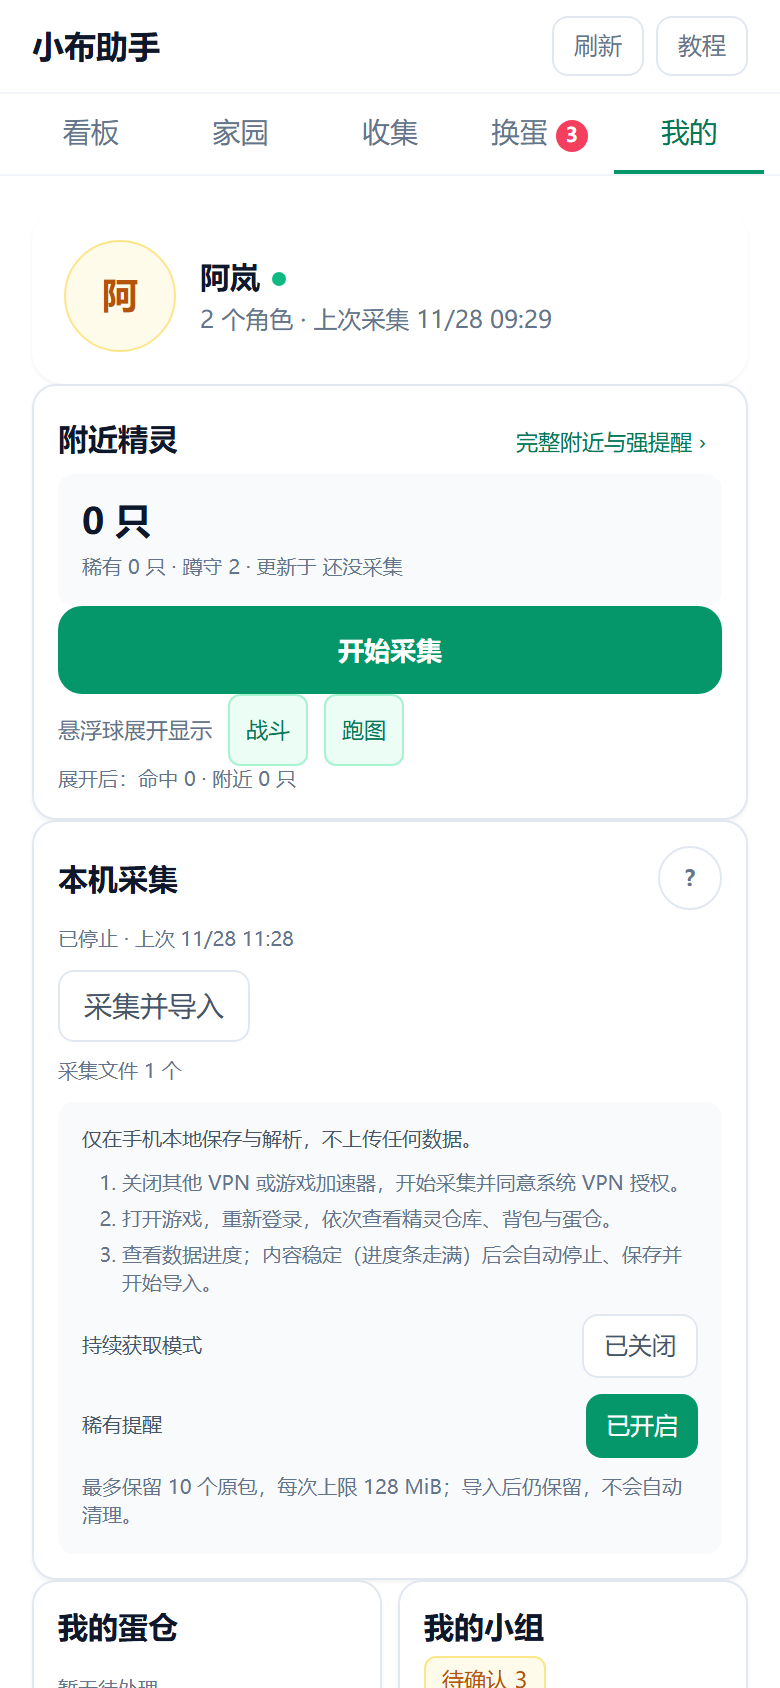
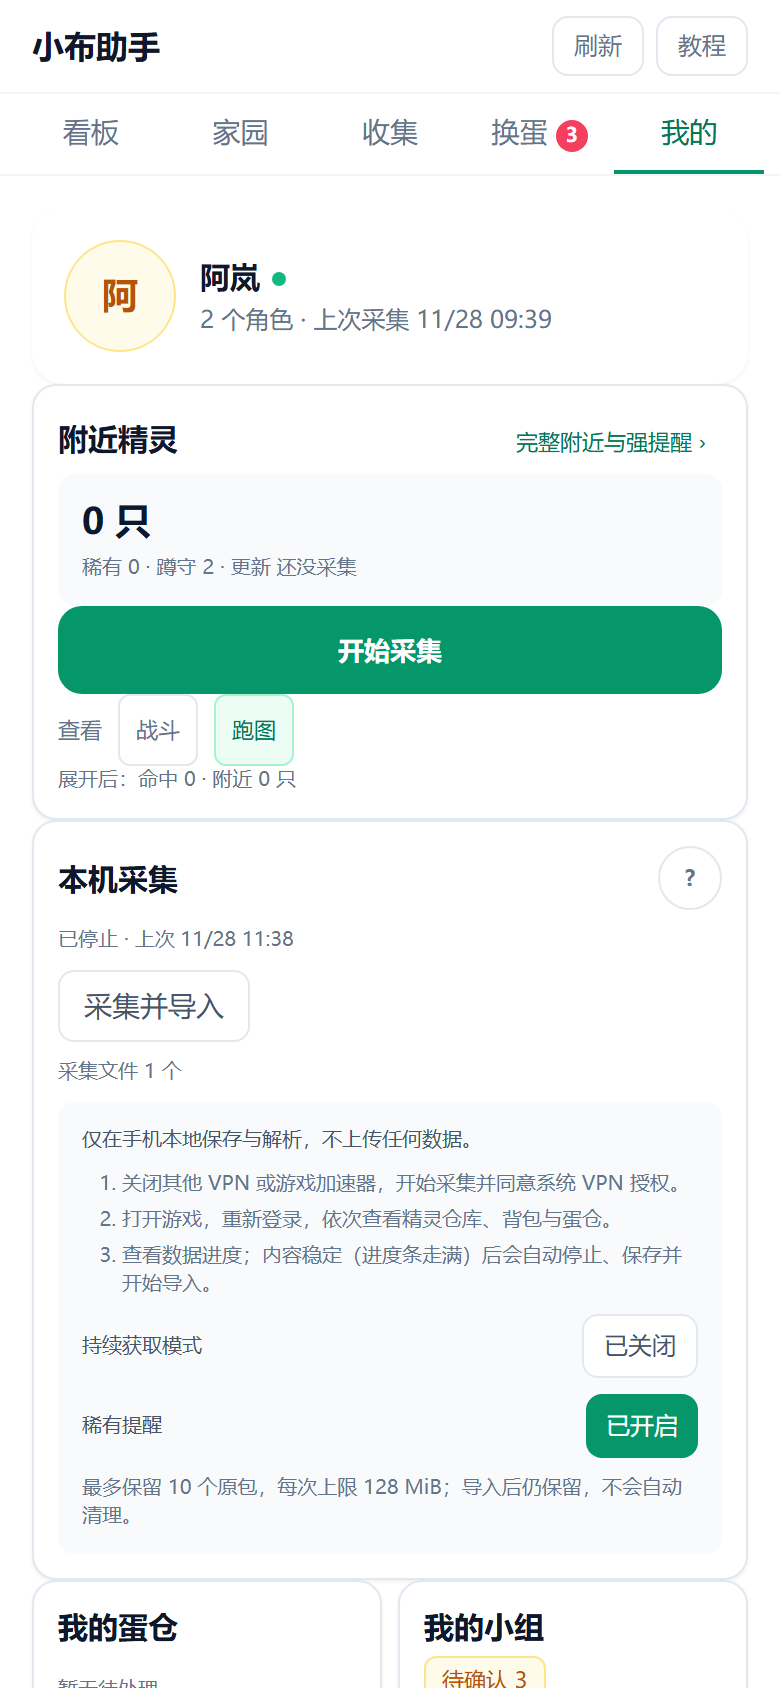
fix(profile): 战斗/跑图改成「看哪一类」的本机偏好，不是采集模式
按 UX1 查证口径修正：
- 新增 captureFocusStore（'battle'|'nearby'，key roco.captureFocus，默认跑图）；
  切换只写偏好，不碰采集会话 / 快照 / 悬浮球开关 / 提醒阈值
- 附近卡：卡名固定「附近精灵」；状态行按焦点切（跑图：N 只 + 稀有/蹲守/更新；
  战斗：最近一场 · 守卫 L 级 · 是否命中；不写「1 场」）；
  战斗 / 跑图改成互斥的查看开关，不再联动 overlayPanels
- 详情：入口文案随焦点变；「附近」页按焦点只显示附近列表或战斗卡
- 截图补 375/390 战斗焦点各一张

diff --git a/src/ui/profile/sections/NearbySection.tsx b/src/ui/profile/sections/NearbySection.tsx
@@ -1,16 +1,15 @@
 import { Card } from '../../kit';
 import { startCollectorCapture } from '../../../collector/nativeCollector';
 import { markCaptureOrigin } from '../../../collector/captureOriginStore';
-import { isLastEnabledNearbyOverlayPanel, setNearbyOverlayPanel, useNearbyOverlayPanels } from '../../../nearby/overlayPanels';
+import { setCaptureFocus, useCaptureFocus } from '../../../collector/captureFocusStore';
 import { useNearbyCardStats } from '../useNearbyCardStats';
 import type { SectionProps } from '../types';
 
 /**
- * 附近精灵入口卡（2026-11-28 UX1 方案 A）。
+ * 附近精灵卡（2026-11-28 UX1 方案 A / 口径修正）。
  *
- * 状态行（几只 / 稀有 / 更新时间）→ 开始采集 → 战斗 / 跑图两个独立开关 →
- * 实时后果一行 → 完整附近与强提醒。
- * 开关就是悬浮球的两块面板（`overlayPanels`），不新建状态；至少留一项。
+ * 战斗 / 跑图只是「看哪一类」：一次采集同时产出两类结果，切换只写本机偏好
+ * （`captureFocusStore`），不碰采集会话、不清快照、不联动悬浮球开关。
  */
 function timeText(ms: number | null): string {
   if (!ms) return '还没采集';
@@ -24,8 +23,8 @@ function timeText(ms: number | null): string {
 }
 
 export function NearbySection({ ctx }: SectionProps) {
-  const { pets, rare, targets, hits, updatedAt } = useNearbyCardStats();
-  const panels = useNearbyOverlayPanels();
+  const { pets, rare, targets, encounter, hit, updatedAt } = useNearbyCardStats();
+  const focus = useCaptureFocus();
 
   const start = () => {
     markCaptureOrigin('nearby');
@@ -45,15 +44,39 @@ export function NearbySection({ ctx }: SectionProps) {
           className="min-h-8 shrink-0 rounded-tile px-s2 text-meta font-medium text-accent-strong transition-colors active:bg-surface-sunken"
           data-testid="profile-nearby-detail"
         >
-          完整附近与强提醒 ›
+          {focus === 'battle' ? '完整战斗与强提醒 ›' : '完整附近与强提醒 ›'}
         </button>
       </div>
 
-      <div className="rounded-tile bg-surface-sunken p-s3" data-testid="profile-nearby-status">
-        <p className="text-hero font-semibold tabular-nums text-ink-strong">{pets} 只</p>
-        <p className="mt-s1 text-caption text-ink-muted">
-          稀有 {rare} 只{targets > 0 ? ` · 蹲守 ${targets}` : ''} · 更新于 {timeText(updatedAt)}
-        </p>
+      <div
+        className="rounded-tile bg-surface-sunken p-s3"
+        data-testid="profile-nearby-status"
+        data-focus={focus}
+      >
+        {focus === 'battle' ? (
+          encounter ? (
+            <>
+              <p className="text-hero font-semibold text-ink-strong">最近一场</p>
+              <p className="mt-s1 text-caption text-ink-muted">
+                {encounter.guardName} L{encounter.level}
+                {hit ? ' · 目标命中' : ''} · 更新 {timeText(updatedAt)}
+              </p>
+            </>
+          ) : (
+            <>
+              <p className="text-hero font-semibold text-ink-strong">最近一场</p>
+              <p className="mt-s1 text-caption text-ink-muted">还没有战斗数据 · 更新 {timeText(updatedAt)}</p>
+            </>
+          )
+        ) : (
+          <>
+            <p className="text-hero font-semibold tabular-nums text-ink-strong">{pets} 只</p>
+            <p className="mt-s1 text-caption text-ink-muted">
+              稀有 {rare}
+              {targets > 0 ? ` · 蹲守 ${targets}` : ''} · 更新 {timeText(updatedAt)}
+            </p>
+          </>
+        )}
       </div>
 
       <button
@@ -66,32 +89,29 @@ export function NearbySection({ ctx }: SectionProps) {
       </button>
 
       <div className="flex items-center gap-s2" data-testid="profile-nearby-panels">
-        <span className="text-meta text-ink-muted">悬浮球展开显示</span>
+        <span className="text-meta text-ink-muted">查看</span>
         {(['battle', 'nearby'] as const).map((key) => {
-          const on = panels[key];
-          const locked = isLastEnabledNearbyOverlayPanel(panels, key);
-          const label = key === 'battle' ? '战斗' : '跑图';
+          const on = focus === key;
           return (
             <button
               key={key}
               type="button"
               aria-pressed={on}
-              disabled={locked}
-              onClick={() => setNearbyOverlayPanel(key, !on)}
+              onClick={() => setCaptureFocus(key)}
               data-testid={`profile-nearby-panel-${key}`}
               className={`min-h-9 rounded-chip border px-s2 text-meta font-medium transition-colors active:bg-surface-sunken ${
                 on
                   ? 'border-accent-line bg-accent-soft text-accent-strong'
                   : 'border-line bg-surface text-ink-muted'
-              } disabled:opacity-60`}
+              }`}
             >
-              {label}
+              {key === 'battle' ? '战斗' : '跑图'}
             </button>
           );
         })}
       </div>
       <p className="text-caption text-ink-muted" data-testid="profile-nearby-effect">
-        展开后：命中 {hits} · 附近 {pets} 只
+        展开后：命中 {hit ? 1 : 0} · 附近 {pets} 只
       </p>
     </Card>
   );

diff --git a/src/ui/Nearby.tsx b/src/ui/Nearby.tsx
@@ -20,6 +20,7 @@ import { KIND_LABELS, rareAlertTitle } from '../pcap/rareRules';
 import type { NavigationIntent } from './navigation';
 import { NearbyBattleCard } from './NearbyBattleCard';
 import { NearbyAlertCard } from './NearbyAlertCard';
+import { useCaptureFocus } from '../collector/captureFocusStore';
 import { MapErrorBoundary } from './NearbyErrorBoundary';
 import { NearbyMap } from './NearbyMap';
 import { NearbyRadar } from './NearbyRadar';
@@ -250,6 +251,7 @@ export function Nearby({ onNavigate, embedded = false }: NearbyProps) {
   const rareAlertOn = useRareAlert();
   /** 手机悬浮球展开后显示哪些面板（本机记忆，只影响安卓壳，不重排本页） */
   const shellOverlaySupported = hasNearbyOverlayShell();
+  const captureFocus = useCaptureFocus();
   /** 悬浮球是否被隐藏（1.3.6）：长按球隐藏，这里负责恢复；null = 旧壳没有这个能力 */
   const [orbHidden, setOrbHiddenState] = useState<boolean | null>(null);
   const [view, setView] = useState<NearbyView>('map');
@@ -648,7 +650,7 @@ export function Nearby({ onNavigate, embedded = false }: NearbyProps) {
       <NearbyAlertCard />
       <section className="rounded-2xl bg-white p-3 shadow-sm" data-testid="nearby-status">
         <div className="flex items-center justify-between gap-2">
-          <h2 className="text-sm font-semibold text-slate-800">跑图 · 附近精灵</h2>
+          <h2 className="text-sm font-semibold text-slate-800">附近精灵</h2>
           <div className="flex shrink-0 items-center gap-1">
             {overlaySupported ? (
               <button
@@ -729,7 +731,7 @@ export function Nearby({ onNavigate, embedded = false }: NearbyProps) {
         {flow.error ? <p className="mt-1 text-xs text-rose-600" role="alert">{flow.error}</p> : null}
       </section>
 
-      <NearbyBattleCard encounter={encounter} />
+      {captureFocus === 'battle' ? <NearbyBattleCard encounter={encounter} /> : null}
 
       {capturing && progress && !progress.analysis.hasKey ? (
         <div className="rounded-xl bg-amber-50 px-3 py-2 text-xs text-amber-800 ring-1 ring-amber-200" data-testid="nearby-waiting-key">
@@ -758,6 +760,7 @@ export function Nearby({ onNavigate, embedded = false }: NearbyProps) {
         </div>
       ) : null}
 
+      <div className={captureFocus === 'battle' ? 'hidden' : 'contents'} data-testid="nearby-list-region">
       {hasAny ? (
         <>
           <div className="space-y-1.5 rounded-2xl bg-white p-3 shadow-sm" data-tour="nearby-filters">
@@ -951,6 +954,7 @@ export function Nearby({ onNavigate, embedded = false }: NearbyProps) {
           }
         />
       )}
+      </div>
 
       {fullscreen ? (
         <div className="fixed inset-0 z-[70] flex flex-col bg-slate-950" data-testid="nearby-fullscreen-view">

diff --git a/src/ui/Nearby.test.tsx b/src/ui/Nearby.test.tsx
@@ -2,6 +2,7 @@ import { act, fireEvent, render, screen, waitFor, within } from '@testing-librar
 import { beforeEach, describe, expect, test, vi } from 'vitest';
 import { useAutoImport, requestAutoImport } from '../collector/autoImportFlow';
 import { isNearbyOwnedSession, resetCaptureOriginForTest } from '../collector/captureOriginStore';
+import { resetCaptureFocusForTest, setCaptureFocus } from '../collector/captureFocusStore';
 import type { CaptureProgress } from '../collector/captureProgress';
 import { resetNearbyAlertGateForTest } from '../collector/nearbyAlert';
 import { resetNearbyRetainedForTest } from '../collector/nearbyRetainStore';
@@ -86,6 +87,7 @@ const shellWithOverlay = () => {
 const openList = () => fireEvent.click(screen.getByRole('button', { name: '列表' }));
 
 beforeEach(() => {
+  resetCaptureFocusForTest();
   resetNearbyRetainedForTest();
   resetNearbyAlertGateForTest();
   resetCaptureOriginForTest();
@@ -109,7 +111,8 @@ describe('附近页', () => {
     expect(screen.getByText(/附近 3 只/)).toBeTruthy();
   });
 
-  test('赛季奇遇战显示捕获后的精灵名与百分比', () => {
+  test('赛季奇遇战显示捕获后的精灵名与百分比（焦点=战斗）', () => {
+    setCaptureFocus('battle');
     feed({ ...snapshot, encounter });
     render(<Nearby onNavigate={vi.fn()} />);
     const card = screen.getByTestId('nearby-battle-card');
@@ -121,7 +124,8 @@ describe('附近页', () => {
     expect(card.textContent).toContain('声音 14dB');
   });
 
-  test('还没拿到真实 petId 时不猜精灵名，显示守卫名', () => {
+  test('还没拿到真实 petId 时不猜精灵名，显示守卫名（焦点=战斗）', () => {
+    setCaptureFocus('battle');
     feed({ ...snapshot, encounter: { ...encounter, rewardPetId: null, rewardName: '' } });
     render(<Nearby onNavigate={vi.fn()} />);
     const card = screen.getByTestId('nearby-battle-card');

diff --git a/src/ui/profile/useNearbyCardStats.ts b/src/ui/profile/useNearbyCardStats.ts
@@ -2,19 +2,22 @@ import { useMemo } from 'react';
 import { battleTargetHit, useBattleTarget } from '../../collector/battleTargetStore';
 import { useNearbySnapshot } from '../../collector/nearbyStore';
 import { useNearbyTargets } from '../../nearby/nearbyTargetStore';
+import type { SeasonEncounter } from '../../collector/captureProgress';
 
 /**
  * 「我的」页附近卡的数据（2026-11-28 UX1 方案 A）。
  *
- * 全部来自**现有 store**：附近快照（`nearbyStore`）、蹲守名单、战斗目标；
- * 不新建状态，也不发起采集——卡只负责显示与入口。
+ * 全部来自**现有 store**：附近快照（`nearbyStore`）、蹲守名单、战斗目标。
+ * 一次采集同时产出附近与战斗两类结果，这里只读同一份快照，不触发解析。
  */
 export interface NearbyCardStats {
   pets: number;
   rare: number;
   targets: number;
-  /** 本场奇遇是否命中战斗目标（0/1） */
-  hits: number;
+  /** 最近一场战斗守卫；没有则为 null */
+  encounter: SeasonEncounter | null;
+  /** 本场是否命中战斗目标 */
+  hit: boolean;
   updatedAt: number | null;
 }
 
@@ -25,11 +28,13 @@ export function useNearbyCardStats(): NearbyCardStats {
 
   return useMemo(() => {
     const pets = snapshot?.pets ?? [];
+    const encounter = snapshot?.encounter ?? null;
     return {
       pets: pets.length,
       rare: pets.filter((pet) => pet.rare).length,
       targets: targets.length,
-      hits: snapshot?.encounter && battleTargetHit(battleTarget, snapshot.encounter) ? 1 : 0,
+      encounter,
+      hit: encounter != null && battleTargetHit(battleTarget, encounter),
       updatedAt: snapshot?.updatedAt ?? null,
     };
   }, [snapshot, targets.length, battleTarget]);

diff --git a/src/collector/captureFocusStore.ts b/src/collector/captureFocusStore.ts
@@ -1,0 +1,40 @@
+import { createModuleStore } from '../ui/createModuleStore';
+
+/**
+ * 「我的 · 附近精灵」卡看哪一类结果（2026-11-28 UX1 口径修正）。
+ *
+ * 一次采集、一次解码**同时**产出附近精灵与战斗守卫；这里只是 UI 偏好，
+ * 决定卡片状态行 / 详情入口 / 详情面板显示哪一类。
+ * **不碰采集会话、不清快照、不联动悬浮球开关、不改提醒阈值**——切回来零成本。
+ */
+export type CaptureFocus = 'battle' | 'nearby';
+
+export const CAPTURE_FOCUS_KEY = 'roco.captureFocus';
+
+export const DEFAULT_CAPTURE_FOCUS: CaptureFocus = 'nearby';
+
+export function normalizeCaptureFocus(value: unknown): CaptureFocus {
+  return value === 'battle' ? 'battle' : 'nearby';
+}
+
+const store = createModuleStore<CaptureFocus>(DEFAULT_CAPTURE_FOCUS, {
+  persistKey: CAPTURE_FOCUS_KEY,
+  migrate: normalizeCaptureFocus,
+});
+
+export function readCaptureFocus(): CaptureFocus {
+  return normalizeCaptureFocus(store.get());
+}
+
+export function useCaptureFocus(): CaptureFocus {
+  return store.use();
+}
+
+export function setCaptureFocus(focus: CaptureFocus): void {
+  store.set(normalizeCaptureFocus(focus));
+}
+
+/** 测试用：恢复默认（跑图）。 */
+export function resetCaptureFocusForTest(): void {
+  store.set(DEFAULT_CAPTURE_FOCUS);
+}

diff --git a/src/collector/captureFocusStore.test.ts b/src/collector/captureFocusStore.test.ts
@@ -1,0 +1,38 @@
+import { beforeEach, describe, expect, test } from 'vitest';
+import {
+  CAPTURE_FOCUS_KEY,
+  DEFAULT_CAPTURE_FOCUS,
+  normalizeCaptureFocus,
+  readCaptureFocus,
+  resetCaptureFocusForTest,
+  setCaptureFocus,
+} from './captureFocusStore';
+
+/**
+ * 战斗 / 跑图只是「看哪一类」（2026-11-28 口径修正）：
+ * 只存一个本机偏好，默认跑图，切错再点回来零成本。
+ */
+describe('captureFocusStore', () => {
+  beforeEach(() => {
+    window.localStorage.clear();
+    resetCaptureFocusForTest();
+  });
+
+  test('默认跑图；切换只写本机偏好', () => {
+    expect(DEFAULT_CAPTURE_FOCUS).toBe('nearby');
+    expect(readCaptureFocus()).toBe('nearby');
+
+    setCaptureFocus('battle');
+    expect(readCaptureFocus()).toBe('battle');
+    expect(JSON.parse(window.localStorage.getItem(CAPTURE_FOCUS_KEY) ?? 'null')).toBe('battle');
+
+    setCaptureFocus('nearby');
+    expect(readCaptureFocus()).toBe('nearby');
+  });
+
+  test('坏值一律按跑图处理', () => {
+    expect(normalizeCaptureFocus('battle')).toBe('battle');
+    expect(normalizeCaptureFocus('nope')).toBe('nearby');
+    expect(normalizeCaptureFocus(null)).toBe('nearby');
+  });
+});

diff --git a/src/ui/Profile.test.tsx b/src/ui/Profile.test.tsx
@@ -128,13 +128,14 @@ describe('Profile（我的）', () => {
 
     const battle = screen.getByTestId('profile-nearby-panel-battle');
     const nearby = screen.getByTestId('profile-nearby-panel-nearby');
-    expect(battle).toHaveAttribute('aria-pressed', 'true');
-    fireEvent.click(nearby);
-    expect(nearby).toHaveAttribute('aria-pressed', 'false');
-    // 关掉跑图后，战斗就是最后一项：置灰，不能再关掉
-    expect(battle).toBeDisabled();
+    // 默认看跑图；切战斗只换偏好，不碰采集会话
+    expect(nearby).toHaveAttribute('aria-pressed', 'true');
+    expect(battle).toHaveAttribute('aria-pressed', 'false');
     fireEvent.click(battle);
     expect(battle).toHaveAttribute('aria-pressed', 'true');
+    expect(nearby).toHaveAttribute('aria-pressed', 'false');
+    fireEvent.click(nearby);
+    expect(nearby).toHaveAttribute('aria-pressed', 'true');
   });
 
   test('概览卡挂在我的首页；分区子视图有「返回我的」并带 profile-section-data', () => {
